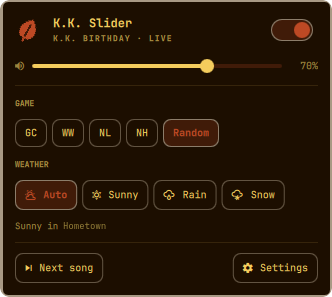
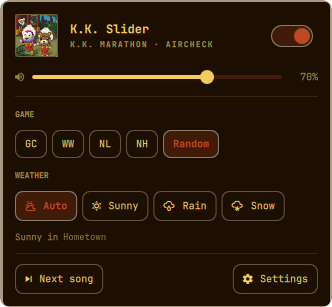
Show K.K.'s album cover in the panel while he plays
The panel's hero swaps the leaf for the current song's cover (from the
music server) during concerts, K.K. hours, between-hours songs, and
previews; it falls back to the leaf if the cover can't load. The bar icon
stays the leaf. README and K.K. screenshot updated.

diff --git a/Panel.qml b/Panel.qml
@@ -167,10 +167,44 @@ Panel {
             foreground: root.foreground
             fontFamily: root.fontFamily
             iconOpacity: root.audible ? 1.0 : 0.5
+            // K.K.'s album cover while he's playing; the leaf otherwise (or
+            // if the cover can't load).
             iconComponent: Component {
-              LeafIcon {
-                iconSize: Style.font.display * 1.3
-                color: root.accent
+              Item {
+                readonly property bool showArt: cover.status === Image.Ready && cover.source != ""
+                implicitWidth: showArt ? cover.width : leaf.width
+                implicitHeight: showArt ? cover.height : leaf.height
+
+                LeafIcon {
+                  id: leaf
+                  anchors.centerIn: parent
+                  visible: !parent.showArt
+                  iconSize: Style.font.display * 1.3
+                  color: root.accent
+                }
+
+                Image {
+                  id: cover
+                  anchors.centerIn: parent
+                  visible: parent.showArt
+                  width: Style.space(52)
+                  height: width
+                  source: root.svc ? Model.kkArtUrl(root.svc.artSong) : ""
+                  sourceSize.width: 128
+                  sourceSize.height: 128
+                  asynchronous: true
+                  smooth: true
+                  fillMode: Image.PreserveAspectCrop
+                }
+
+                Rectangle {
+                  anchors.fill: cover
+                  visible: parent.showArt
+                  color: "transparent"
+                  radius: Math.min(4, Style.cornerRadius)
+                  border.width: 1
+                  border.color: Qt.darker(root.foreground, 2.2)
+                }
               }
             }
             trailingControl: Component {

diff --git a/Service.qml b/Service.qml
@@ -78,6 +78,8 @@ Item {
   // K.K. song being previewed from Settings (plays over whatever was on).
   property string previewSong: ""
   property string previewVersion: ""
+  // K.K. song whose cover the panel shows (empty when no K.K. is playing).
+  readonly property string artSong: previewSong || (kkActive || betweenActive ? kkSong : "")
   property string version: ""
   // View the next panel opening should land on ("settings" from the CLI).
   property string requestedView: ""

diff --git a/Model.js b/Model.js
@@ -443,6 +443,11 @@ function kkUrl(version, song) {
   return BASE_URL + "/kk/" + version + "/" + encodeURIComponent(song) + ".ogg"
 }
 
+// Album cover for a K.K. song (128x128 PNG).
+function kkArtUrl(song) {
+  return song ? BASE_URL + "/kk/art/" + encodeURIComponent(song) + ".png" : ""
+}
+
 // "NH - Drivin'" -> "Drivin'"
 function kkTitle(song) {
   var i = song.indexOf(" - ")

diff --git a/README.md b/README.md
@@ -89,7 +89,7 @@ The leaf is dimmed while the music is paused, on hold, or turned down.
 
 From top to bottom:
 
-- **Now playing:** the game (or *K.K. Slider*) with the hour and weather underneath, or the song title and version during K.K. The switch on the right plays and pauses. A **Paused** or **On hold** tag shows when the music isn't playing.
+- **Now playing:** the game (or *K.K. Slider*) with the hour and weather underneath, or the song title and version during K.K. The switch on the right plays and pauses. A **Paused** or **On hold** tag shows when the music isn't playing. While K.K. is playing (a concert, a K.K. hour, a between-hours song, or a preview), the leaf here becomes the song's **album cover**. The leaf in your bar never changes.
 - **Volume:** the slider sets the plugin's own volume, separate from your system volume.
 - **Game:** **GC** (Animal Crossing on GameCube), **WW** (Wild World / City Folk), **NL** (New Leaf), **NH** (New Horizons), or **Random**. Hover a button for the full name. Picking a specific game always plays that game; the per-hour grid only applies to Random.
 - **Weather:** **Auto** follows the real weather. **Sunny**, **Rain**, and **Snow** lock it. On Auto, the line underneath shows the current conditions and where they're from.
@@ -425,7 +425,8 @@ The plugin talks to three services:
 - **acmusicext.com:** the music itself. One song (usually 3 to 7 MB) per track
   change: once an hour normally, at every switch in *Every few minutes* mode,
   once per song whenever K.K. plays (concerts, K.K. hours, between-hours songs),
-  and once per preview. Loops replay from memory and don't download again.
+  and once per preview, plus a small album cover (about 20 KB) for each K.K.
+  song shown in the panel. Loops replay from memory and don't download again.
 - **api.open-meteo.com:** current weather for your coordinates, every 20 minutes,
   only while Weather is on *Auto*.
 - **wttr.in:** only when Omarchy's weather widget has no location set, to work
